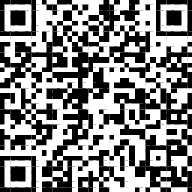
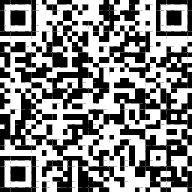
WLocker

diff --git a/index.html b/index.html
@@ -63,10 +63,10 @@
         <div>
             <a class="btn btn-primary btn-xl js-scroll-trigger"
                target="_blank"
-               href="https://www.paypal.com/cgi-bin/webscr?cmd=_s-xclick&hosted_button_id=92X3UPYYGUDW6&source=url">
+               href="https://www.paypal.com/cgi-bin/webscr?cmd=_s-xclick&hosted_button_id=SW62KLS4C7EAQ&source=url">
                 <form action="https://www.paypal.com/cgi-bin/webscr" method="post" target="_top">
                     <input type="hidden" name="cmd" value="_s-xclick"/>
-                    <input type="hidden" name="hosted_button_id" value="92X3UPYYGUDW6"/>
+                    <input type="hidden" name="hosted_button_id" value="SW62KLS4C7EAQ"/>
                     <input type="image" src="https://www.paypalobjects.com/en_US/FR/i/btn/btn_donateCC_LG.gif"
                            border="0" name="submit" title="PayPal - The safer, easier way to pay online!"
                            alt="Donate with PayPal button"/>
@@ -75,7 +75,7 @@
             </a>
             <a class="btn btn-light btn-xl js-scroll-trigger"
                target="_blank"
-               href="https://www.paypal.com/cgi-bin/webscr?cmd=_s-xclick&hosted_button_id=92X3UPYYGUDW6&source=url">
+               href="https://www.paypal.com/cgi-bin/webscr?cmd=_s-xclick&hosted_button_id=SW62KLS4C7EAQ&source=url">
                 <img width="90" height="90" src="img/QRcode.png">
             </a>
         </div>
